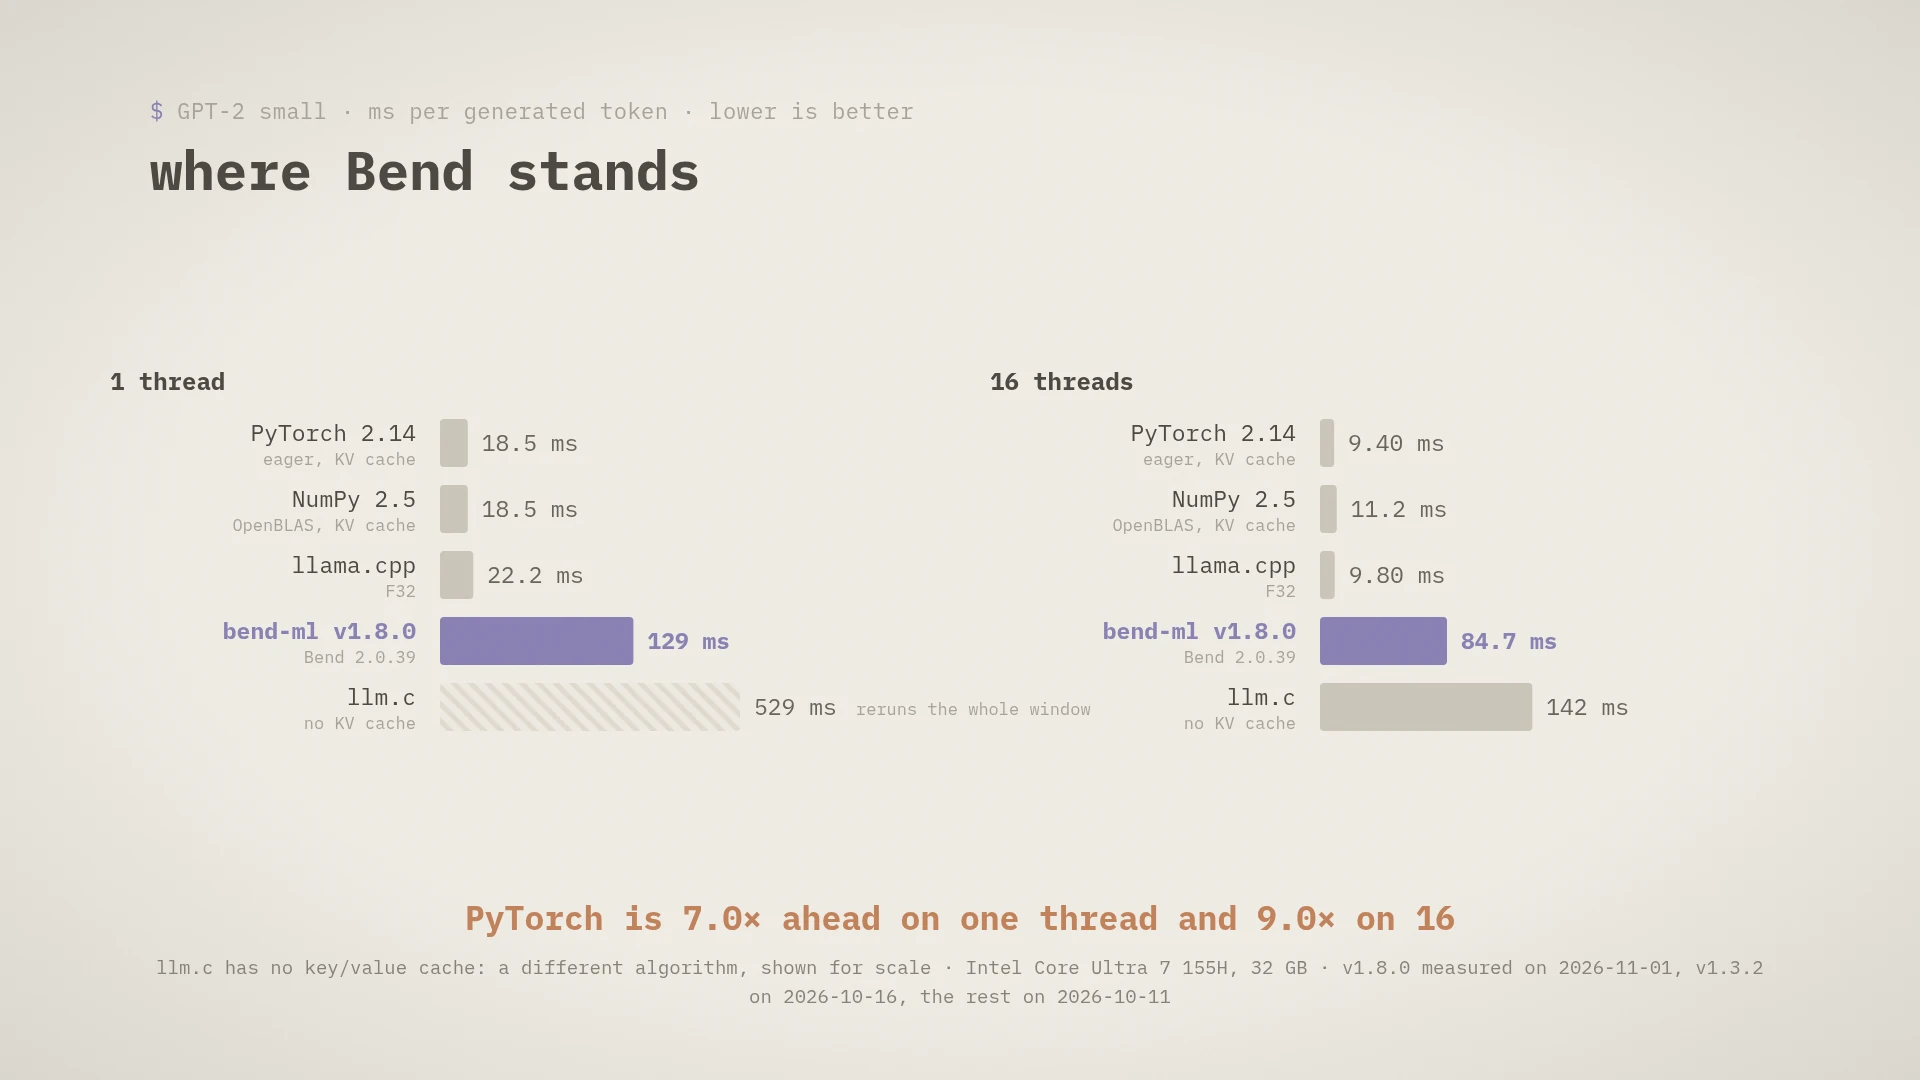
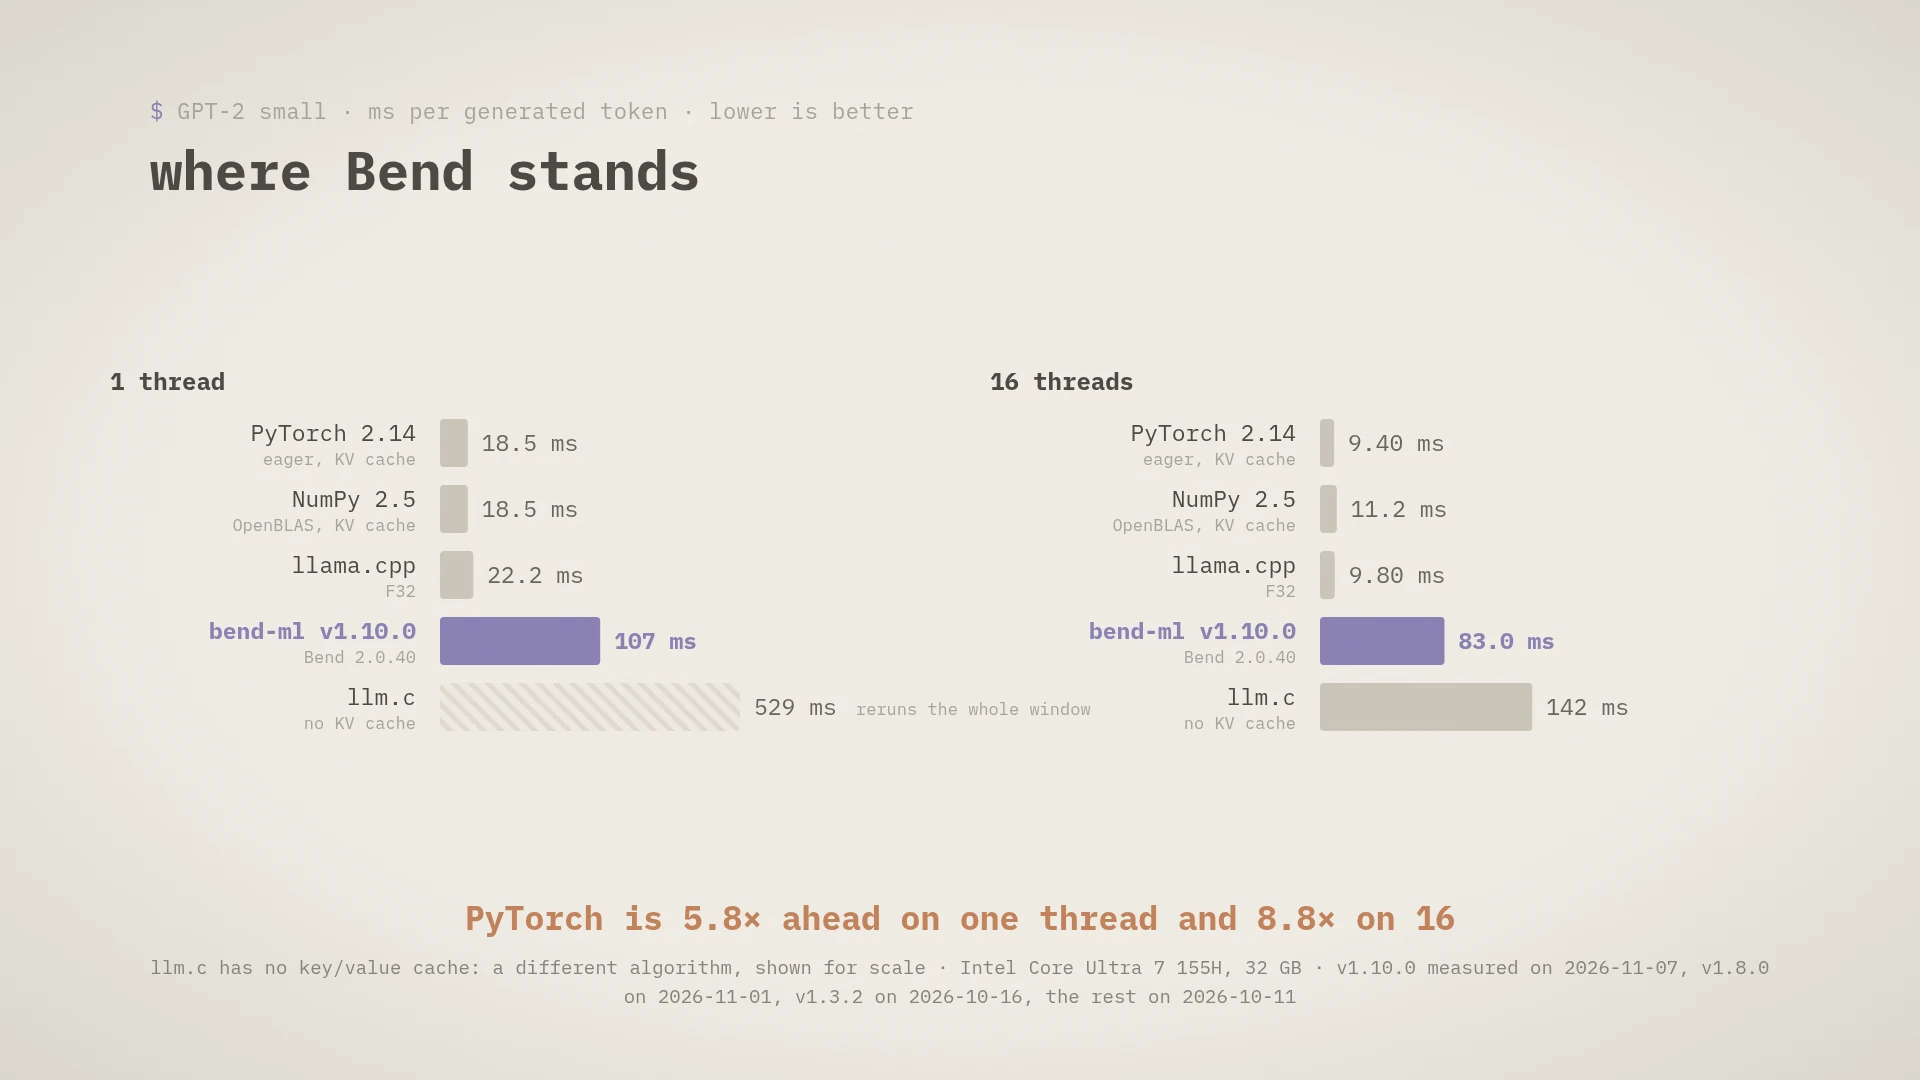
media: README deck frames redrawn with v1.10.0's numbers of 2026-11-07

diff --git a/docs/media/deck/frames/index.html b/docs/media/deck/frames/index.html
@@ -1,6 +1,6 @@
-<!doctype html><meta charset="utf-8"><title>bend-ml v1.8.0 · evidence of 2026-10-11, 2026-10-16 and 2026-11-01</title>
+<!doctype html><meta charset="utf-8"><title>bend-ml v1.10.0 · evidence of 2026-10-11, 2026-10-16, 2026-11-01 and 2026-11-07</title>
 <style>body{background:#e9e4db;margin:0;padding:40px 0;font-family:ui-monospace,monospace;color:#69665f}img{display:block;width:min(1600px,96vw);margin:0 auto 40px;border-radius:12px;box-shadow:0 2px 12px rgba(0,0,0,.12)}h1{text-align:center;font-size:20px;font-weight:400}</style>
-<h1>bend-ml v1.8.0 · evidence of 2026-10-11, 2026-10-16 and 2026-11-01</h1><img src="01-title.webp" alt="01-title.webp">
+<h1>bend-ml v1.10.0 · evidence of 2026-10-11, 2026-10-16, 2026-11-01 and 2026-11-07</h1><img src="01-title.webp" alt="01-title.webp">
 <img src="02-same-work.webp" alt="02-same-work.webp">
 <img src="03-history.webp" alt="03-history.webp">
 <img src="04-vs-references.webp" alt="04-vs-references.webp">
